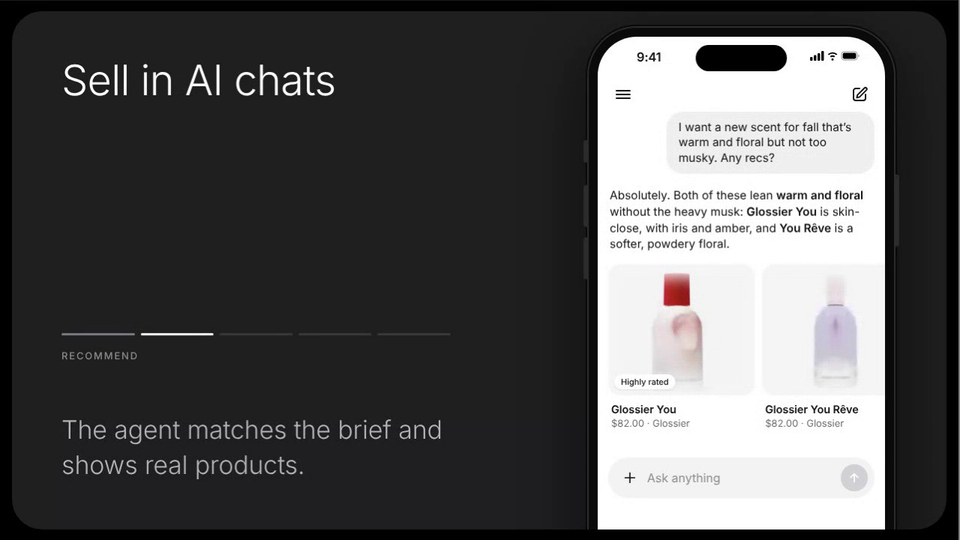
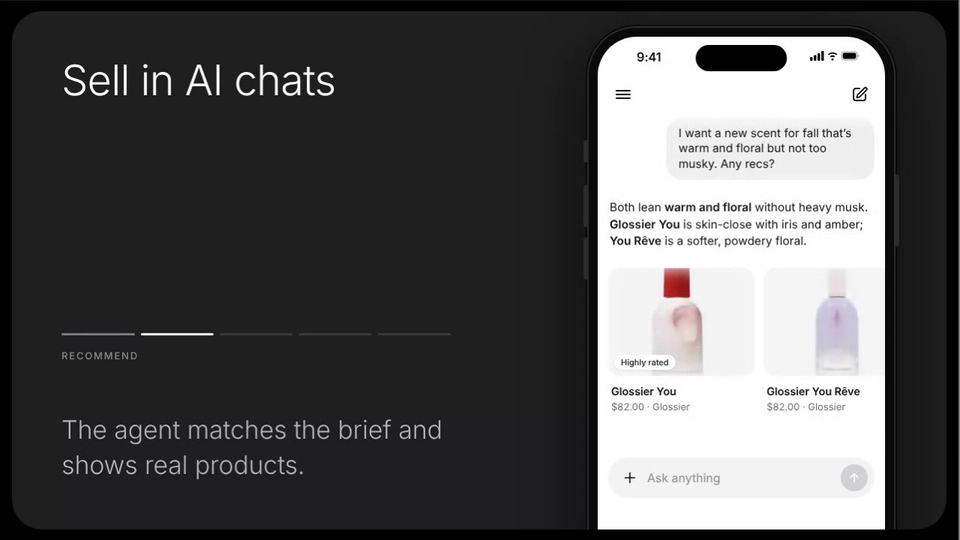
Agentic Storefront: slower typing and tap pacing, wrapping composer, more spacing between text groups
Claude-Session: https://claude.ai/code/session_01AHeBe1i3ShmmviMKFkaT6q

diff --git a/agentic-storefront/index.html b/agentic-storefront/index.html
@@ -60,13 +60,13 @@ main{flex:1;min-height:0;position:relative;overflow:hidden;background:#000}
 .hdr{position:absolute;left:0;right:0;top:54px;height:46px;z-index:2}
 .hdr svg{position:absolute;top:11px;width:24px;height:24px;stroke:#111;fill:none;stroke-width:1.9;stroke-linecap:round;stroke-linejoin:round}
 .hdr .m{left:22px}.hdr .c{right:22px}
-#chat{position:absolute;left:0;right:0;top:100px;height:454px;overflow-y:auto;overflow-x:hidden;scrollbar-width:none}
+#chat{-webkit-mask-image:linear-gradient(transparent 0,#000 22px);mask-image:linear-gradient(transparent 0,#000 22px);position:absolute;left:0;right:0;top:100px;height:454px;overflow-y:auto;overflow-x:hidden;scrollbar-width:none}
 #chat::-webkit-scrollbar{display:none}
-#msgs{padding:8px 14px 30px;display:flex;flex-direction:column}
+#msgs{padding:8px 14px 6px;display:flex;flex-direction:column}
 #empty{position:absolute;left:0;right:0;top:215px;text-align:center;font-size:23px;font-weight:600;letter-spacing:-.015em;transition:opacity calc(.3s*var(--k));z-index:1}
 #empty.out{opacity:0}
-.mu{align-self:flex-end;max-width:278px;background:#f0f0f1;border-radius:22px;padding:11px 16px;font-size:15.5px;line-height:1.32;margin:0 0 18px 40px;animation:pop calc(.45s*var(--k)) cubic-bezier(.2,.8,.2,1)}
-.ma{font-size:15.5px;line-height:1.4;margin:0 2px 14px;animation:fadeUp calc(.4s*var(--k)) ease-out}
+.mu{align-self:flex-end;max-width:278px;background:#f0f0f1;border-radius:22px;padding:11px 16px;font-size:15.5px;line-height:1.32;margin:0 0 26px 40px;animation:pop calc(.45s*var(--k)) cubic-bezier(.2,.8,.2,1)}
+.ma{font-size:15.5px;line-height:1.45;margin:0 2px 20px;animation:fadeUp calc(.4s*var(--k)) ease-out}
 .ma b{font-weight:600}
 .ma .w{opacity:0;transition:opacity calc(.25s*var(--k))}.ma .w.in{opacity:1}
 @keyframes pop{from{opacity:0;transform:translateY(14px) scale(.96)}to{opacity:1;transform:none}}
@@ -76,39 +76,39 @@ main{flex:1;min-height:0;position:relative;overflow:hidden;background:#000}
 .dots i:nth-child(2){animation-delay:calc(.15s*var(--k))}.dots i:nth-child(3){animation-delay:calc(.3s*var(--k))}
 @keyframes dot{0%,60%,100%{transform:none;opacity:.5}30%{transform:translateY(-4px);opacity:1}}
 
-.car{display:flex;gap:10px;margin:2px -14px 0;padding:0 14px;overflow-x:auto;scrollbar-width:none}
+.car{display:flex;gap:12px;margin:4px -14px 22px;padding:0 14px;overflow-x:auto;scrollbar-width:none}
 .car::-webkit-scrollbar{display:none}
 .pc{flex:none;width:196px;opacity:0;transform:translateY(16px);transition:opacity calc(.5s*var(--k)),transform calc(.6s*var(--k)) cubic-bezier(.2,.8,.2,1)}
 .pc.in{opacity:1;transform:none}
-.pc .im{position:relative;height:175px;border-radius:16px;background:#f6f6f7;overflow:hidden;transition:transform .15s}
+.pc .im{position:relative;height:144px;border-radius:16px;background:#f6f6f7;overflow:hidden;transition:transform .15s}
 .pc.press .im{transform:scale(.96)}
 .pc img{width:100%;height:100%;object-fit:cover;display:block}
 .pc .bd{position:absolute;left:8px;bottom:8px;background:#fff;border-radius:999px;padding:3px 9px;font-size:11px;font-weight:500;box-shadow:0 1px 3px rgba(0,0,0,.08)}
-.pc h4{margin:10px 0 0 4px;font-size:14.5px;font-weight:600;letter-spacing:-.005em}
-.pc p{margin:2px 0 0 4px;font-size:13px;color:var(--mute)}
+.pc h4{margin:12px 0 0 4px;font-size:14.5px;font-weight:600;letter-spacing:-.005em}
+.pc p{margin:4px 0 0 4px;font-size:13px;color:var(--mute)}
 
-.ocard{border:1px solid var(--line);border-radius:20px;padding:14px;margin:2px 0 14px;background:#fff;animation:fadeUp calc(.5s*var(--k)) ease-out;box-shadow:0 8px 24px -14px rgba(0,0,0,.25)}
+.ocard{border:1px solid var(--line);border-radius:20px;padding:16px;margin:6px 0 24px;background:#fff;animation:fadeUp calc(.5s*var(--k)) ease-out;box-shadow:0 8px 24px -14px rgba(0,0,0,.25)}
 .ocard .ok{display:inline-flex;align-items:center;gap:6px;background:#e7f7ec;color:#18803a;border-radius:999px;padding:4px 10px 4px 6px;font-size:12.5px;font-weight:600}
 .ocard .ok svg{width:16px;height:16px}
-.ocard .it{display:flex;gap:12px;align-items:center;margin-top:12px}
+.ocard .it{display:flex;gap:14px;align-items:center;margin-top:16px}
 .ocard .it img{width:62px;height:56px;border-radius:12px;object-fit:cover;background:#f6f6f7}
-.ocard .it b{display:block;font-size:14.5px;font-weight:600}
+.ocard .it b{display:block;font-size:14.5px;font-weight:600;margin-bottom:3px}
 .ocard .it span{font-size:12.5px;color:var(--mute)}
-.ocard dl{margin:12px 0 0;border-top:1px solid var(--line);padding-top:9px;display:grid;grid-template-columns:auto 1fr;gap:5px 12px;font-size:13px}
+.ocard dl{margin:16px 0 0;border-top:1px solid var(--line);padding-top:13px;display:grid;grid-template-columns:auto 1fr;gap:8px 12px;font-size:13px}
 .ocard dt{color:var(--mute)}.ocard dd{margin:0;text-align:right;font-weight:500}
 
-#comp{position:absolute;left:14px;right:14px;top:562px;height:54px;border-radius:27px;background:#f3f3f4;z-index:2}
-#comp .pl{position:absolute;left:18px;top:16px;width:22px;height:22px;stroke:#111;stroke-width:1.8;fill:none;stroke-linecap:round}
-#cf{position:absolute;left:52px;right:60px;top:0;height:54px;display:flex;align-items:center;font-size:16px;color:#111;white-space:nowrap;overflow:hidden}
+#comp{position:absolute;left:14px;right:14px;bottom:150px;min-height:54px;border-radius:27px;background:#f3f3f4;z-index:2;padding:16px 58px 16px 52px;transition:min-height .2s}
+#comp .pl{position:absolute;left:18px;bottom:16px;width:22px;height:22px;stroke:#111;stroke-width:1.8;fill:none;stroke-linecap:round}
+#cf{font-size:16px;line-height:22px;color:#111;min-height:22px}
 #cf .ph{color:#8e8e93}
-#cf .cr{display:inline-block;width:2px;height:20px;background:var(--blue);margin-left:1px;animation:blink 1s steps(1) infinite}
+#cf .cr{display:inline-block;width:2px;height:19px;vertical-align:-4px;background:var(--blue);margin-left:1px;animation:blink 1s steps(1) infinite}
 @keyframes blink{50%{opacity:0}}
-#send{position:absolute;right:9px;top:9px;width:36px;height:36px;border-radius:50%;background:#d1d1d6;display:grid;place-items:center;transition:background .2s,transform .15s}
+#send{position:absolute;right:9px;bottom:9px;width:36px;height:36px;border-radius:50%;background:#d1d1d6;display:grid;place-items:center;transition:background .2s,transform .15s}
 #send.act{background:#000}
 #send.press{transform:scale(.9)}
 #send svg{width:18px;height:18px;stroke:#fff;stroke-width:2.4;fill:none;stroke-linecap:round;stroke-linejoin:round}
 
-#touch{position:absolute;left:0;top:0;width:42px;height:42px;margin:-21px 0 0 -21px;border-radius:50%;background:rgba(80,80,90,.34);border:1.5px solid rgba(255,255,255,.7);z-index:60;pointer-events:none;opacity:0;transform:scale(1);transition:left calc(.55s*var(--k)) cubic-bezier(.3,.7,.2,1),top calc(.55s*var(--k)) cubic-bezier(.3,.7,.2,1),opacity .2s,transform .12s}
+#touch{position:absolute;left:0;top:0;width:42px;height:42px;margin:-21px 0 0 -21px;border-radius:50%;background:rgba(80,80,90,.34);border:1.5px solid rgba(255,255,255,.7);z-index:60;pointer-events:none;opacity:0;transform:scale(1);transition:left calc(.85s*var(--k)) cubic-bezier(.3,.7,.2,1),top calc(.85s*var(--k)) cubic-bezier(.3,.7,.2,1),opacity .2s,transform .12s}
 #touch.show{opacity:1}
 #touch.down{transform:scale(.72);background:rgba(80,80,90,.5)}
 
@@ -118,20 +118,20 @@ main{flex:1;min-height:0;position:relative;overflow:hidden;background:#000}
 #d1{z-index:10}#d2{z-index:20}
 .sheet{position:absolute;left:0;right:0;top:92px;height:700px;background:#fff;border-radius:30px 30px 0 0;box-shadow:0 -10px 40px rgba(0,0,0,.2);transform:translateY(740px);transition:transform calc(.6s*var(--k)) cubic-bezier(.2,.8,.2,1)}
 .sheet.up{transform:none}
-#ps{z-index:11}#cs{z-index:12}
+#ps{z-index:11}#cs{z-index:12;top:72px}
 .x{position:absolute;right:16px;top:16px;width:30px;height:30px;border-radius:50%;background:rgba(255,255,255,.85);display:grid;place-items:center}
 .x svg{width:13px;height:13px;stroke:#111;stroke-width:2.6;fill:none;stroke-linecap:round}
 /* product sheet */
 #ps .pi{height:300px;border-radius:30px 30px 0 0;overflow:hidden;background:#f6f6f7}
 #ps .pi img{width:100%;height:100%;object-fit:cover;object-position:50% 40%;display:block}
-#ps h3{margin:12px 22px 0;font-size:23px;font-weight:500;letter-spacing:-.02em}
-#ps .sz{margin:14px 22px 0;font-size:14px;font-weight:600}
+#ps h3{margin:18px 22px 0;font-size:23px;font-weight:500;letter-spacing:-.02em}
+#ps .sz{margin:20px 22px 0;font-size:14px;font-weight:600}
 #ps .sz s{text-decoration:none;font-weight:400;color:#8e8e93}
-#chips{display:flex;gap:10px;margin:12px 18px 0}
+#chips{display:flex;gap:10px;margin:14px 18px 0}
 #chips b{height:42px;padding:0 17px;display:grid;place-items:center;border-radius:21px;background:var(--chip);font-size:13.5px;font-weight:500;border:1.5px solid transparent;transition:border-color .15s,background .15s,transform .15s}
 #chips b.sel{border-color:#000;background:#fff}
 #chips b.press{transform:scale(.94)}
-#ps .buy{position:absolute;left:22px;right:22px;top:458px;display:flex;align-items:center}
+#ps .buy{position:absolute;left:22px;right:22px;top:476px;display:flex;align-items:center}
 .lg{width:26px;height:26px;border-radius:50%;background:#000;color:#fff;display:grid;place-items:center;font:700 15px/1 Georgia,serif;font-style:italic;margin-right:10px;flex:none}
 #ps .buy .sn b{display:block;font-size:15px;font-weight:600}
 #ps .buy .sn span{font-size:11.5px;color:var(--mute);white-space:nowrap}
@@ -144,44 +144,44 @@ main{flex:1;min-height:0;position:relative;overflow:hidden;background:#000}
 #cs .ch svg{position:absolute;top:19px;width:20px;height:20px;stroke:#111;stroke-width:2;fill:none;stroke-linecap:round;stroke-linejoin:round}
 #cs .ch .bk{left:22px}#cs .ch .cl{right:22px;width:17px;height:17px;top:20px}
 #cs .ch .lg{margin:0 8px 0 0;width:22px;height:22px;font-size:13px}
-#cs .ci{display:flex;gap:14px;padding:4px 22px 0}
+#cs .ci{display:flex;gap:16px;padding:6px 22px 0}
 #cs .ci .th{width:82px;height:82px;border-radius:14px;background:#f6f6f7;overflow:hidden;flex:none}
 #cs .ci .th img{width:100%;height:100%;object-fit:cover}
 #cs .ci h5{margin:2px 0 0;font-size:17px;font-weight:500;letter-spacing:-.01em}
-#cs .ci p{margin:3px 0 0;font-size:12.5px;color:var(--mute)}
-.qty{display:inline-flex;align-items:center;gap:14px;margin-top:8px;height:32px;padding:0 12px;border-radius:16px;background:var(--chip);font-size:14px}
+#cs .ci p{margin:5px 0 0;font-size:12.5px;color:var(--mute)}
+.qty{display:inline-flex;align-items:center;gap:14px;margin-top:12px;height:32px;padding:0 12px;border-radius:16px;background:var(--chip);font-size:14px}
 .qty em{font-style:normal;color:#8e8e93;font-size:17px}
-.row{display:flex;align-items:center;gap:14px;padding:0 22px;height:56px}
+.row{display:flex;align-items:center;gap:14px;padding:0 22px;height:60px}
 .row .ic{width:34px;height:24px;border-radius:5px;display:grid;place-items:center;flex:none}
 .row .tx b{display:block;font-size:14px;font-weight:500}
-.row .tx span{font-size:12.5px;color:var(--mute)}
+.row .tx span{display:block;margin-top:3px;font-size:12.5px;color:var(--mute)}
 .row .cv{margin-left:auto;width:16px;height:16px;stroke:#b0b0b6;stroke-width:2;fill:none;stroke-linecap:round;stroke-linejoin:round}
-#cs .tot{margin:10px 22px 0;font-size:12.5px;color:var(--mute);display:grid;grid-template-columns:1fr auto;gap:3px 0}
+#cs .tot{margin:16px 22px 0;font-size:12.5px;color:var(--mute);display:grid;grid-template-columns:1fr auto;gap:6px 0}
 #cs .tot em{font-style:normal;text-align:right}
-#cs .pg{display:flex;align-items:center;margin:12px 22px 0;font-size:14px;font-weight:500}
-#cs .pg small{display:block;font-size:12px;color:var(--mute);font-weight:400}
+#cs .pg{display:flex;align-items:center;margin:18px 22px 0;font-size:14px;font-weight:500}
+#cs .pg small{display:block;margin-top:3px;font-size:12px;color:var(--mute);font-weight:400}
 #cs .pg strong{margin-left:auto;font-size:21px;font-weight:600;letter-spacing:-.01em}
-#paybtn{margin:12px 18px 0;height:52px;border-radius:26px;background:#000;color:#fff;display:flex;align-items:center;justify-content:center;gap:4px;font-size:19px;font-weight:600;letter-spacing:-.01em;transition:transform .15s}
+#paybtn{margin:18px 18px 0;height:52px;border-radius:26px;background:#000;color:#fff;display:flex;align-items:center;justify-content:center;gap:4px;font-size:19px;font-weight:600;letter-spacing:-.01em;transition:transform .15s}
 #paybtn.press{transform:scale(.97)}
 #paybtn svg{width:17px;height:21px;fill:#fff;margin-top:-2px}
 /* apple pay sheet */
-#as{position:absolute;left:0;right:0;top:196px;height:620px;background:#f2f2f7;border-radius:32px 32px 0 0;z-index:21;transform:translateY(740px);transition:transform calc(.6s*var(--k)) cubic-bezier(.2,.8,.2,1);box-shadow:0 -10px 40px rgba(0,0,0,.25)}
+#as{position:absolute;left:0;right:0;top:172px;height:620px;background:#f2f2f7;border-radius:32px 32px 0 0;z-index:21;transform:translateY(740px);transition:transform calc(.6s*var(--k)) cubic-bezier(.2,.8,.2,1);box-shadow:0 -10px 40px rgba(0,0,0,.25)}
 #as.up{transform:none}
 #as .ah{height:56px;display:flex;align-items:center;justify-content:center;gap:4px;font-size:19px;font-weight:600;letter-spacing:-.01em;position:relative}
 #as .ah svg.ap{width:16px;height:20px;fill:#000;margin-top:-2px}
 #as .ah .cn{position:absolute;right:16px;top:13px;width:30px;height:30px;border-radius:50%;background:#e1e1e6;display:grid;place-items:center}
 #as .ah .cn svg{width:12px;height:12px;stroke:#6e6e73;stroke-width:2.6;fill:none;stroke-linecap:round}
-#as .grp{margin:2px 16px 0;background:#fff;border-radius:16px;overflow:hidden}
-#as .grp .r{display:flex;align-items:center;gap:12px;padding:0 14px;min-height:54px;border-top:1px solid #ececf0}
+#as .grp{margin:4px 16px 0;background:#fff;border-radius:16px;overflow:hidden}
+#as .grp .r{display:flex;align-items:center;gap:12px;padding:8px 14px;min-height:56px;border-top:1px solid #ececf0}
 #as .grp .r:first-child{border-top:0}
 #as .grp .r small{width:54px;flex:none;font-size:11px;letter-spacing:.06em;text-transform:uppercase;color:#8e8e93;font-weight:500}
 #as .grp .r span{font-size:12.5px;line-height:1.3;color:#111}
 #as .grp .r .cd{width:30px;height:20px;border-radius:4px;background:linear-gradient(90deg,#e8412c 50%,#f79e1b 50%);position:relative;flex:none}
 #as .grp .r .cd::after{content:"";position:absolute;left:9px;top:3px;width:14px;height:14px;border-radius:50%;background:#ff5f00;opacity:.9}
-#as .tl{display:flex;align-items:center;margin:14px 30px 0;font-size:15px;font-weight:600}
+#as .tl{display:flex;align-items:center;margin:20px 30px 0;font-size:15px;font-weight:600}
 #as .tl em{font-style:normal;margin-left:auto;font-size:20px}
-#as .tl small{display:block;font-weight:400;color:#8e8e93;font-size:12px}
-#fid{position:absolute;left:0;right:0;top:340px;text-align:center}
+#as .tl small{display:block;margin-top:3px;font-weight:400;color:#8e8e93;font-size:12px}
+#fid{position:absolute;left:0;right:0;top:362px;text-align:center}
 #fid .gl{position:relative;width:64px;height:64px;margin:0 auto}
 #fid .gl svg{position:absolute;inset:0;width:64px;height:64px;fill:none;stroke-linecap:round;stroke-linejoin:round;transition:opacity .2s,transform .35s cubic-bezier(.3,1.4,.5,1)}
 #fid .face{stroke:#000;stroke-width:2.6}
@@ -190,7 +190,7 @@ main{flex:1;min-height:0;position:relative;overflow:hidden;background:#000}
 @keyframes scan{0%,100%{transform:scale(1)}50%{transform:scale(1.12)}}
 #fid.done .face{opacity:0}
 #fid.done .ok{opacity:1;transform:none}
-#fid p{margin:12px 0 0;font-size:14px;color:#6e6e73;transition:opacity .2s}
+#fid p{margin:14px 0 0;font-size:14px;color:#6e6e73;transition:opacity .2s}
 #fid.done p{color:#000;font-weight:600}
 #fid .scanline{position:absolute;left:12px;right:12px;top:14px;height:2px;border-radius:1px;background:var(--blue);opacity:0}
 #fid.scan .scanline{animation:sl calc(.55s*var(--k)) 2 ease-in-out}
@@ -299,7 +299,7 @@ const pos=(el)=>{const r=el.getBoundingClientRect(),s=scr.getBoundingClientRect(
 async function tap(el,dy=0){
   if(fast())return;
   const [x,y]=pos(el);touch.classList.add('show');touch.style.left=x+'px';touch.style.top=(y+dy)+'px';
-  await wait(620);touch.classList.add('down');el.classList.add('press');await wait(150);touch.classList.remove('down');el.classList.remove('press');await wait(120);
+  await wait(950);touch.classList.add('down');el.classList.add('press');await wait(240);touch.classList.remove('down');el.classList.remove('press');await wait(260);
 }
 const hideTouch=()=>{touch.classList.remove('show')};
 function toEnd(smooth=true){chat.scrollTo({top:chat.scrollHeight,behavior:smooth&&!fast()?'smooth':'auto'})}
@@ -337,32 +337,32 @@ function reset(){
 /* ---------- the walkthrough ---------- */
 const ASK='I want a new scent for fall that’s warm and floral but not too musky. Any recs?';
 async function sAsk(){
-  setStep(0);await wait(900);
+  setStep(0);await wait(1300);
   await tap($('#cf'));
   const cf=$('#cf');cf.innerHTML='<span id="tx"></span><i class="cr"></i>';
   const tx=$('#tx');
-  for(let i=1;i<=ASK.length;i++){tx.textContent=ASK.slice(0,i);if(i%3===0||i===ASK.length)await wait(fast()?0:70);}
-  $('#send').classList.add('act');await wait(450);
+  for(let i=1;i<=ASK.length;i++){tx.textContent=ASK.slice(0,i);if(i%2===0||i===ASK.length)await wait(fast()?0:115);}
+  $('#send').classList.add('act');await wait(800);
   await tap($('#send'));
   $('#empty').classList.add('out');cf.innerHTML='<span class="ph">Ask anything</span>';$('#send').classList.remove('act');
-  add(ASK,'mu');toEnd();hideTouch();await wait(700);
+  add(ASK,'mu');toEnd();hideTouch();await wait(1000);
 }
 async function sReco(){
   setStep(1);
-  await dotsThen(1200);
-  await stream('Absolutely. Both of these lean <b>warm and floral</b> without the heavy musk: <b>Glossier You</b> is skin-close, with iris and amber, and <b>You Rêve</b> is a softer, powdery floral.',48);
+  await dotsThen(1500);
+  await stream('Both lean <b>warm and floral</b> without heavy musk. <b>Glossier You</b> is skin-close with iris and amber; <b>You Rêve</b> is a softer, powdery floral.',75);
   await wait(250);
   const car=add('<div class="pc"><div class="im"><img alt="Glossier You" src="'+IMG.you+'"><span class="bd">Highly rated</span></div><h4>Glossier You</h4><p>$82.00 · Glossier</p></div><div class="pc"><div class="im"><img alt="Glossier You Rêve" src="'+IMG.reve+'"></div><h4>Glossier You Rêve</h4><p>$82.00 · Glossier</p></div>','car');
   toEnd();await wait(30);
   $$('.pc',car).forEach((c,i)=>setTimeout(()=>c.classList.add('in'),fast()?0:i*160/speed));
-  toEnd();await wait(1500);
+  toEnd();await wait(1900);
   car.scrollTo({left:120,behavior:fast()?'auto':'smooth'});await wait(1100);
   car.scrollTo({left:0,behavior:fast()?'auto':'smooth'});await wait(900);
 }
 async function sCheckout(){
   setStep(2);
   await tap($$('.pc',msgs)[0]);
-  $('#d1').classList.add('on');$('#ps').classList.add('up');await wait(1000);
+  $('#d1').classList.add('on');$('#ps').classList.add('up');await wait(1300);
   const chip=$$('#chips b')[1];await tap(chip);
   $$('#chips b').forEach(b=>b.classList.remove('sel'));chip.classList.add('sel');$('#szv').textContent='· 50 ml';
   $('#price').classList.add('on');$('#buy').classList.add('on');await wait(700);
@@ -383,7 +383,7 @@ async function sPay(){
 async function sDone(){
   setStep(4);
   await dotsThen(1000);
-  await stream('Done. <b>Your order is confirmed</b> and on its way.',55);
+  await stream('Done. <b>Your order is confirmed</b> and on its way.',80);
   await wait(200);
   add('<div class="ok"><svg viewBox="0 0 16 16"><circle cx="8" cy="8" r="8" fill="#30b24b"/><path d="M4.500 8.200l2.400 2.400 4.600-5" fill="none" stroke="#fff" stroke-width="1.800" stroke-linecap="round" stroke-linejoin="round"/></svg>Order confirmed</div>'+
     '<div class="it"><img alt="" src="'+IMG.you+'"><div><b>Glossier You</b><span>50 ml · Qty 1</span></div></div>'+

diff --git a/tools/record-clips.js b/tools/record-clips.js
@@ -30,7 +30,7 @@ const APPS = {
     ready: 1500, q: 70,
     run: async (p) => {
       const t0 = Date.now();
-      await at(t0, 1300, () => p.evaluate(() => { fl.play({ from: 2, speed: 4.8, keep: true, loop: false }); }));
+      await at(t0, 1300, () => p.evaluate(() => { fl.play({ from: 2, speed: 5.8, keep: true, loop: false }); }));
       await sleep(5200);
     } },
   // ten full-screen styles, each looping on its own with random events; click through five of them with the numbered switcher, ending back near the first
